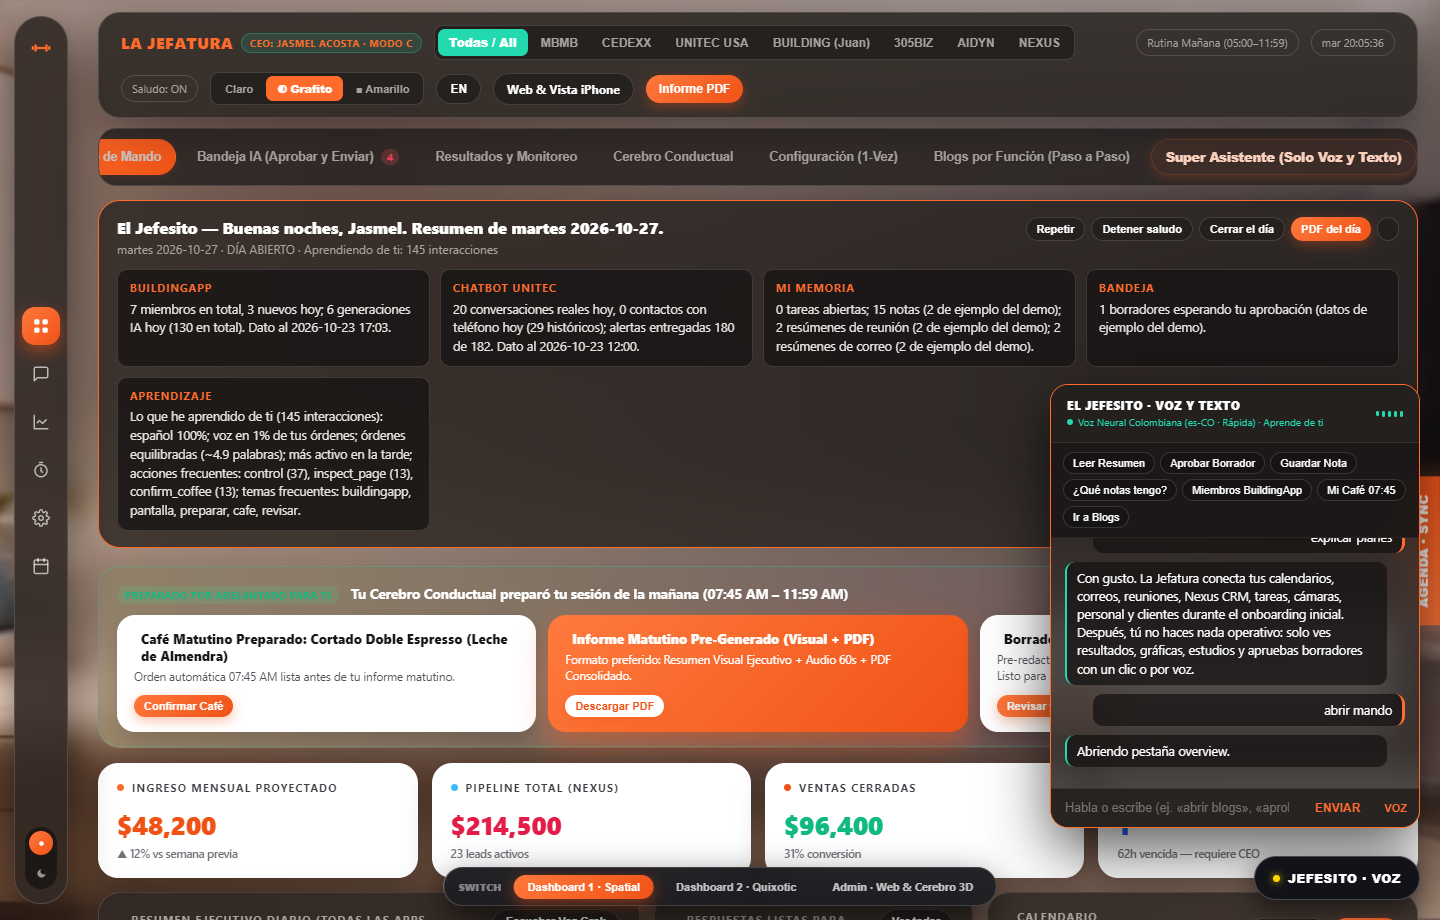
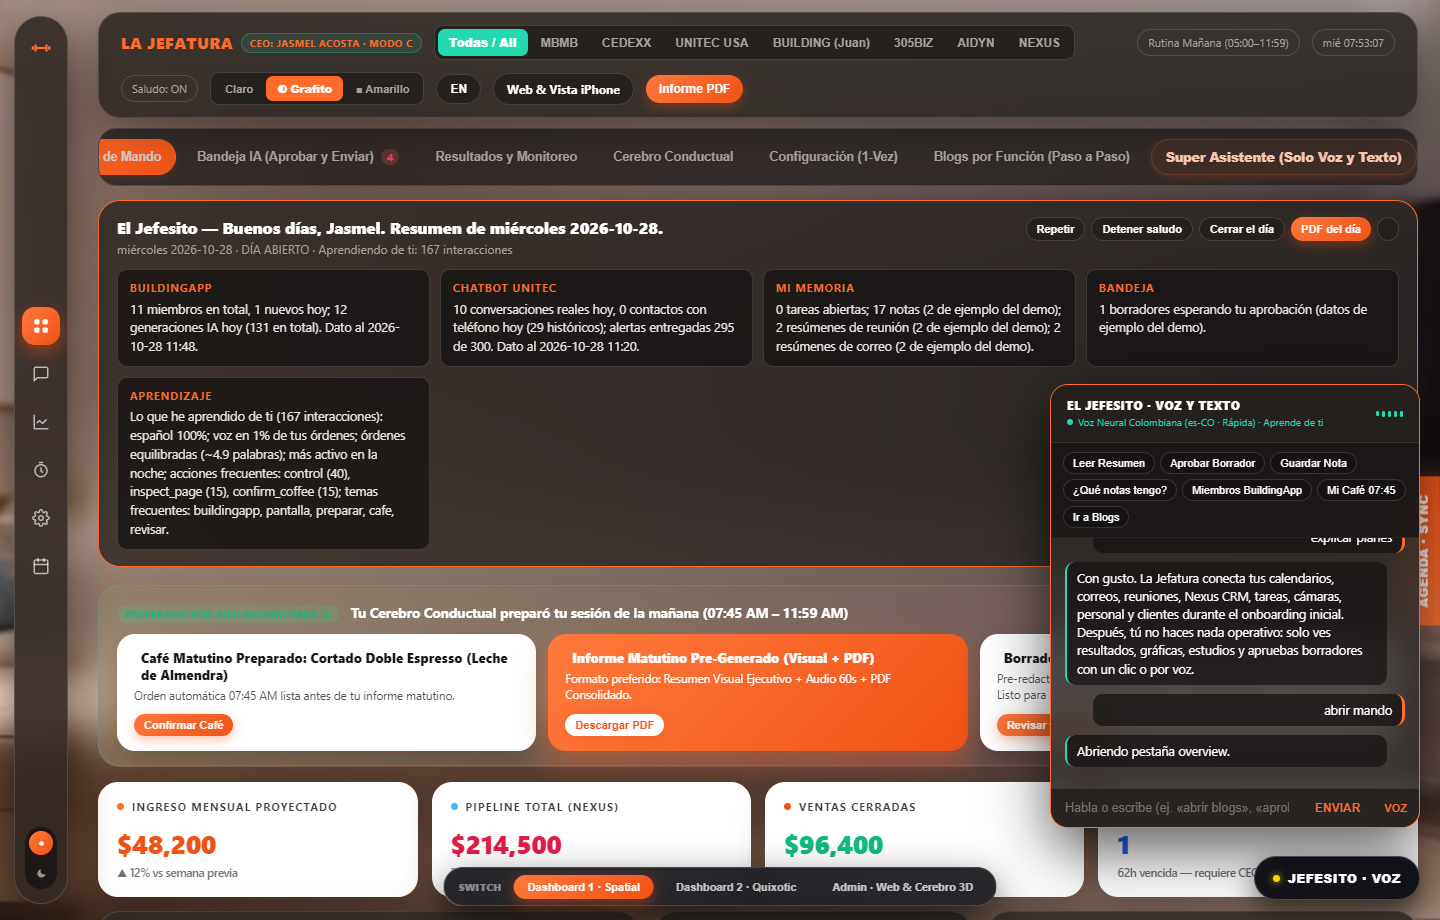
test(e2e): support dynamic live BuildingApp member count in voice brain check

diff --git a/scripts/verify_e2e_browser.js b/scripts/verify_e2e_browser.js
@@ -191,7 +191,7 @@ const URL = 'http://localhost:8931/';
   await page.locator('#ljw-send').click();
   const voiceLog = await page.locator('#ljw-log').innerText();
   check('14. Grok 3.0 Voice & DOM Brain Commands (Inspect DOM, Coffee, Grounded Note Save, Metric Citation, Plans, Tab Switch)',
-    voiceLog.includes('Conciencia DOM Grok 3.0') && voiceLog.includes('café') && voiceLog.includes('Nota guardada') && voiceLog.includes('BuildingApp: 7 miembros') && voiceLog.includes('onboarding'),
+    voiceLog.includes('Conciencia DOM Grok 3.0') && voiceLog.includes('café') && voiceLog.includes('Nota guardada') && /BuildingApp:\s*\d+\s*miembros/.test(voiceLog) && voiceLog.includes('onboarding'),
     'Voice brain DOM inspection, grounded save & source citation verified');
   await page.screenshot({ path: path.join(ASSETS_DIR, 'demo-console-voice.png'), fullPage: false });
   await page.screenshot({ path: path.join(ASSETS_DIR, 'verified-7-grok3-voice-brain.png'), fullPage: false });
